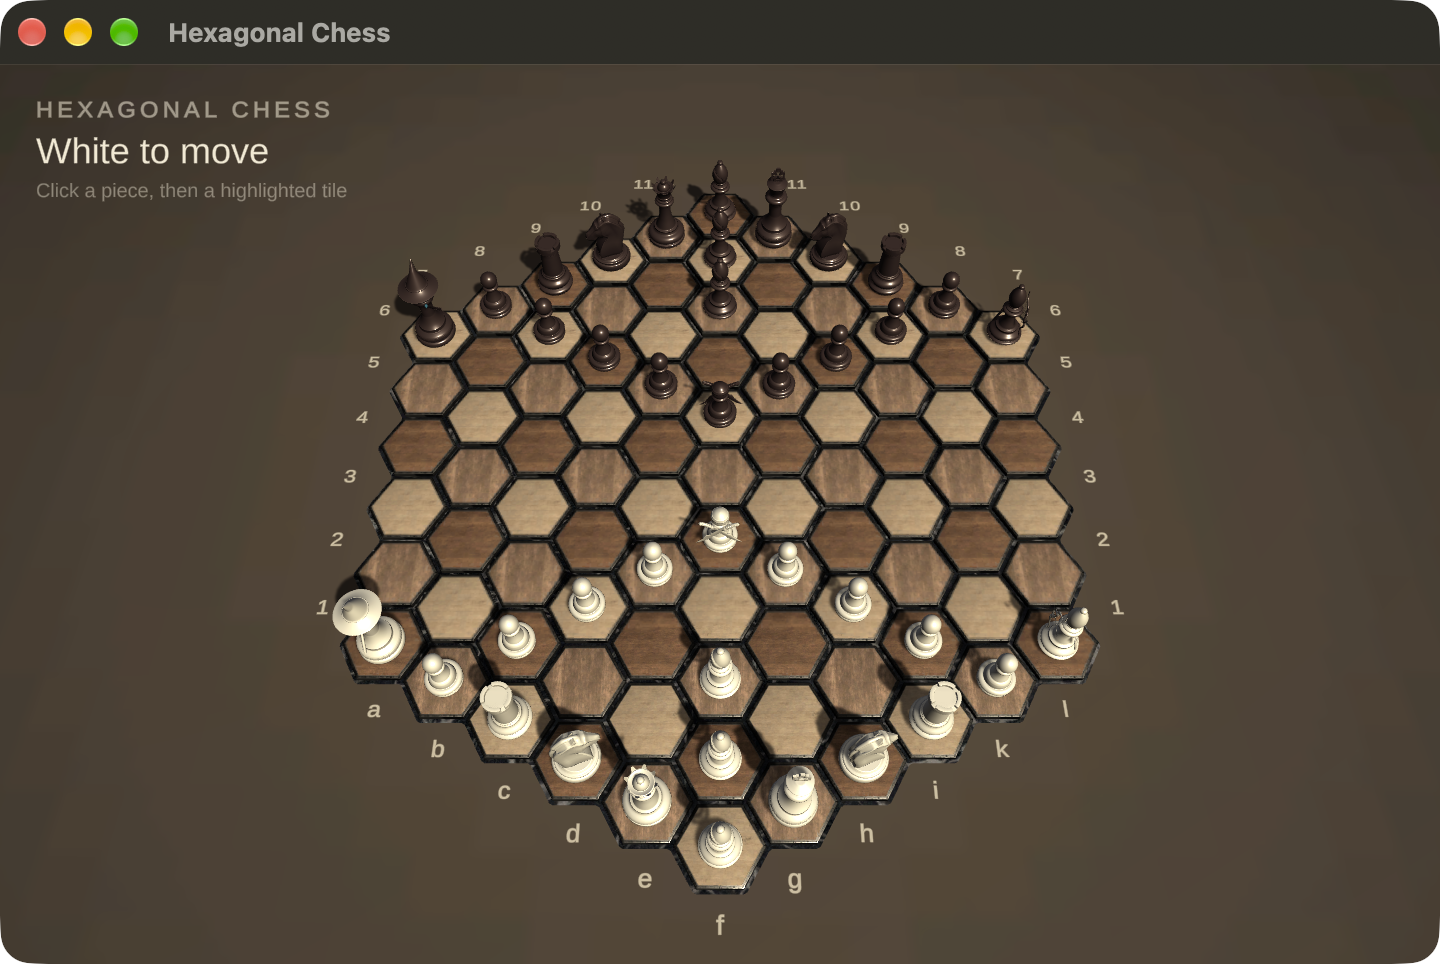
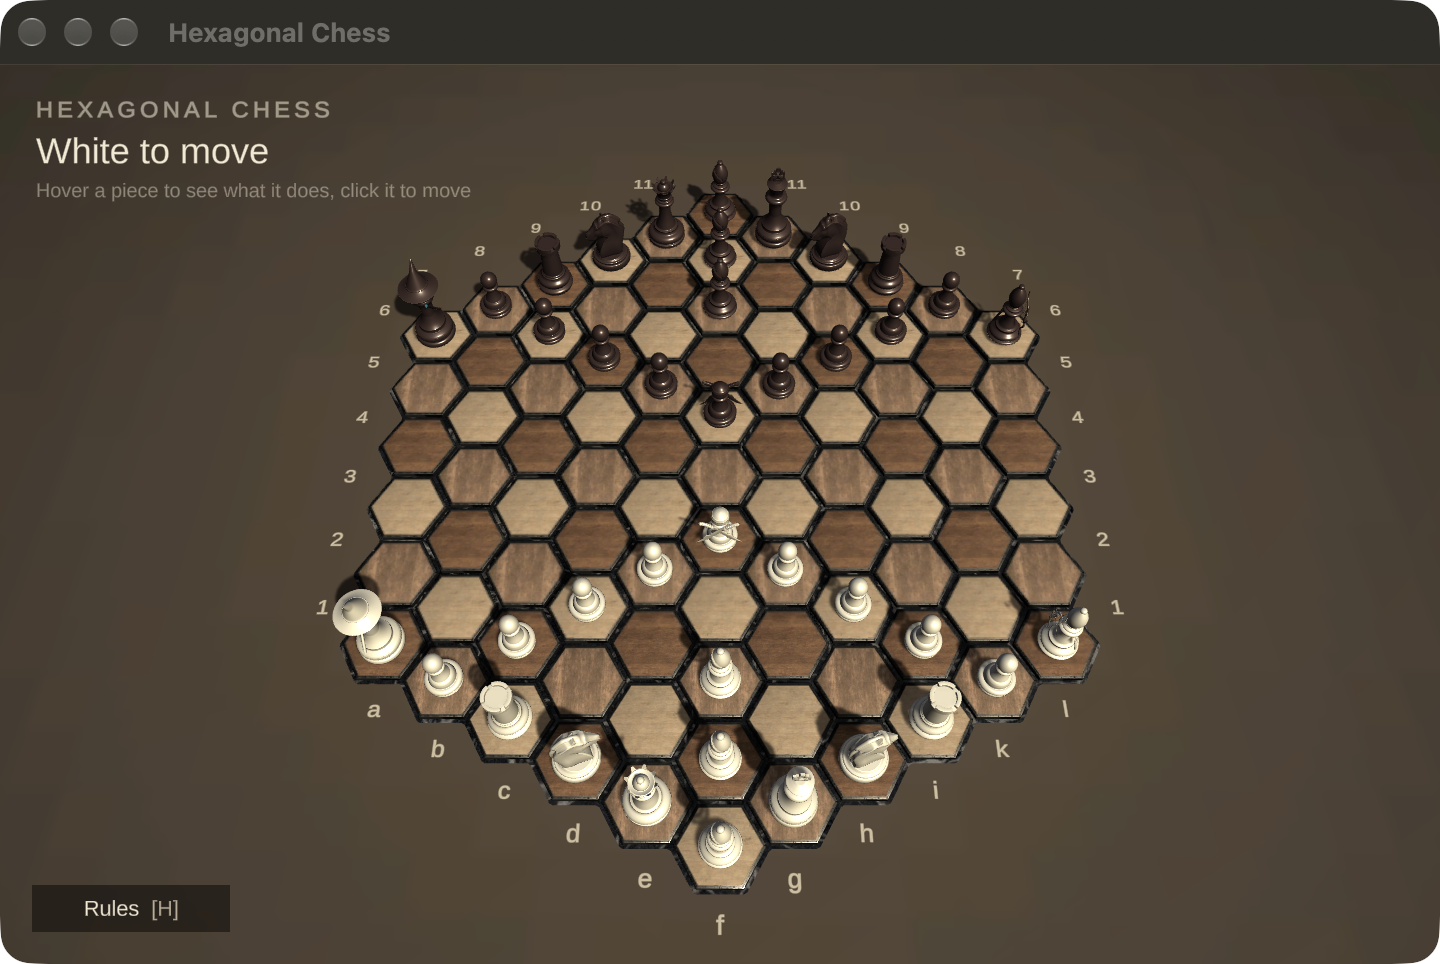
Explain the pieces: details panel and rules overlay
- Hovering or selecting a piece shows its name, side and rules, plus live
  state: Sniper/Wizard recharge, stuns, pawn captures toward promotion,
  the Assassin's second move
- Rules overlay (button or H) with the win condition and every piece
- Clicks on UI or while the overlay is open no longer reach the board
- Cooldown message says moves, matching how cooldowns count down

diff --git a/Assets/Scripts/PieceGuide.cs b/Assets/Scripts/PieceGuide.cs
@@ -1,0 +1,270 @@
+using System.Collections.Generic;
+using TMPro;
+using UnityEngine;
+using UnityEngine.EventSystems;
+using UnityEngine.UI;
+
+/// <summary>
+/// Explains the pieces: a details panel for the hovered or selected piece,
+/// and a rules overlay toggled with H or the Rules button.
+/// </summary>
+public class PieceGuide : MonoBehaviour
+{
+    private struct PieceDoc
+    {
+        public string Name;
+        public string Kind;
+        public string Rules;
+
+        public PieceDoc(string name, string kind, string rules)
+        {
+            Name = name;
+            Kind = kind;
+            Rules = rules;
+        }
+    }
+
+    private static readonly Dictionary<System.Type, PieceDoc> Docs = new Dictionary<System.Type, PieceDoc>
+    {
+        { typeof(King), new PieceDoc("King", "Classic piece",
+            "Steps one tile in any of the 12 directions: the 6 neighbouring tiles and the 6 diagonals. If it is captured, its side loses.") },
+        { typeof(Queen), new PieceDoc("Queen", "Classic piece",
+            "Slides any distance along the 6 straight lines or the 6 diagonals.") },
+        { typeof(Rook), new PieceDoc("Rook", "Classic piece",
+            "Slides any distance along the 6 straight lines, through the edges of the tiles.") },
+        { typeof(Bishop), new PieceDoc("Bishop", "Classic piece",
+            "Slides any distance along the 6 diagonals, through the corners of the tiles. Each of the three bishops stays on one tile colour.") },
+        { typeof(Knight), new PieceDoc("Knight", "Classic piece",
+            "Jumps two tiles straight and then one to the side, leaping over anything in between.") },
+        { typeof(Pawn), new PieceDoc("Pawn", "Classic piece",
+            "Moves one tile forward (two on its first move) and captures one tile diagonally forward. Becomes a Queen on the far edge, or after its third capture. En passant applies.") },
+        { typeof(Assassin), new PieceDoc("Assassin", "Special piece",
+            "Moves up to 3 tiles in a straight line. If it moves without capturing, it gets a second move straight away. It can't capture the Sniper or the Wizard.") },
+        { typeof(Sniper), new PieceDoc("Sniper", "Special piece",
+            "Never moves. Shoots an enemy up to 2 tiles away in a straight line, or 1 diagonal step away, even over other pieces. Then reloads for 10 moves.") },
+        { typeof(Wizard), new PieceDoc("Wizard", "Special piece",
+            "Never moves. Stuns an enemy in the same range as the Sniper: the stunned piece can't move on its side's next turn. Then recharges for 10 moves.") },
+    };
+
+    private static readonly System.Type[] GuideOrder =
+    {
+        typeof(King), typeof(Queen), typeof(Rook), typeof(Bishop), typeof(Knight), typeof(Pawn),
+        typeof(Assassin), typeof(Sniper), typeof(Wizard),
+    };
+
+    private static readonly Color Cream = new Color32(0xF3, 0xE9, 0xD2, 0xFF);
+    private const string Muted = "#B8AC95";
+    private const string Accent = "#FFD08C";
+
+    private GameObject detailsPanel;
+    private TextMeshProUGUI detailsText;
+    private GameObject rulesOverlay;
+    private ChessPiece shownPiece;
+    private string shownState;
+
+    private void Start()
+    {
+        var canvas = FindAnyObjectByType<Canvas>().transform;
+        BuildDetailsPanel(canvas);
+        BuildRulesButton(canvas);
+        BuildRulesOverlay(canvas);
+    }
+
+    private void Update()
+    {
+        if (Input.GetKeyDown(KeyCode.H) || (rulesOverlay.activeSelf && Input.GetKeyDown(KeyCode.Escape)))
+        {
+            ToggleRules();
+        }
+
+        var board = BoardScript.Instance;
+        if (board == null || board.ChessPieces == null)
+        {
+            return;
+        }
+
+        ChessPiece piece = board.SelectedPiece;
+        if (piece == null && board.HoverX >= 0 && board.HoverY >= 0)
+        {
+            piece = board.ChessPieces[board.HoverX, board.HoverY];
+        }
+
+        string state = piece == null ? null : State(piece);
+        if (piece == shownPiece && state == shownState)
+        {
+            return;
+        }
+        shownPiece = piece;
+        shownState = state;
+
+        detailsPanel.SetActive(piece != null);
+        if (piece == null || !Docs.TryGetValue(piece.GetType(), out PieceDoc doc))
+        {
+            detailsPanel.SetActive(false);
+            return;
+        }
+
+        string side = piece.isWhite ? "White" : "Black";
+        detailsText.text =
+            $"<size=38>{doc.Name}</size>\n" +
+            $"<color={Muted}><size=20>{side.ToUpper()}  ·  {doc.Kind.ToUpper()}</size></color>\n\n" +
+            $"<size=23>{doc.Rules}</size>" +
+            (string.IsNullOrEmpty(state) ? "" : $"\n\n<color={Accent}><size=23>{state}</size></color>");
+    }
+
+    /// <summary>
+    /// Live status of a piece: cooldowns, stuns, captures toward promotion
+    /// </summary>
+    private static string State(ChessPiece piece)
+    {
+        var lines = new List<string>();
+
+        if (piece.isStunned)
+        {
+            lines.Add("Stunned: can't move this turn");
+        }
+
+        if (piece is Sniper || piece is Wizard)
+        {
+            string action = piece is Sniper ? "Shot" : "Stun";
+            lines.Add(piece.coolDown > 0
+                ? $"{action} ready in {piece.coolDown} move{(piece.coolDown == 1 ? "" : "s")}"
+                : $"{action} ready");
+        }
+        else if (piece is Pawn)
+        {
+            lines.Add($"Captures: {piece.score} of 3");
+        }
+        else if (piece is Assassin && piece.doubleMove)
+        {
+            lines.Add("Second move: pick a tile");
+        }
+
+        return string.Join("\n", lines);
+    }
+
+    private void ToggleRules()
+    {
+        bool open = !rulesOverlay.activeSelf;
+        rulesOverlay.SetActive(open);
+        BoardScript.InputBlocked = open;
+    }
+
+    private void BuildDetailsPanel(Transform canvas)
+    {
+        detailsPanel = Panel(canvas, "Piece Details", new Color(0.05f, 0.04f, 0.03f, 0.55f));
+        var rt = (RectTransform)detailsPanel.transform;
+        rt.anchorMin = rt.anchorMax = rt.pivot = new Vector2(1, 1);
+        rt.anchoredPosition = new Vector2(-36, -36);
+        rt.sizeDelta = new Vector2(380, 0);
+
+        var layout = detailsPanel.AddComponent<VerticalLayoutGroup>();
+        layout.padding = new RectOffset(26, 26, 22, 24);
+        layout.childControlWidth = layout.childControlHeight = true;
+        layout.childForceExpandHeight = false;
+        detailsPanel.AddComponent<ContentSizeFitter>().verticalFit = ContentSizeFitter.FitMode.PreferredSize;
+
+        detailsText = Text(detailsPanel.transform, "Text", "", 23);
+        detailsText.lineSpacing = 6;
+        detailsPanel.SetActive(false);
+    }
+
+    private void BuildRulesButton(Transform canvas)
+    {
+        var go = Panel(canvas, "Rules Button", new Color(0.05f, 0.04f, 0.03f, 0.55f));
+        var rt = (RectTransform)go.transform;
+        rt.anchorMin = rt.anchorMax = rt.pivot = new Vector2(0, 0);
+        rt.anchoredPosition = new Vector2(36, 36);
+        rt.sizeDelta = new Vector2(220, 52);
+        go.GetComponent<Image>().raycastTarget = true;
+
+        var button = go.AddComponent<Button>();
+        var colors = button.colors;
+        colors.highlightedColor = new Color(1.5f, 1.4f, 1.2f, 1f);
+        button.colors = colors;
+        button.onClick.AddListener(ToggleRules);
+
+        var label = Text(go.transform, "Label", $"Rules  <color={Muted}>[H]</color>", 24);
+        label.alignment = TextAlignmentOptions.Center;
+        Stretch(label.rectTransform);
+    }
+
+    private void BuildRulesOverlay(Transform canvas)
+    {
+        rulesOverlay = Panel(canvas, "Rules Overlay", new Color(0.04f, 0.035f, 0.03f, 0.9f));
+        Stretch((RectTransform)rulesOverlay.transform);
+        rulesOverlay.GetComponent<Image>().raycastTarget = true;
+        rulesOverlay.AddComponent<Button>().onClick.AddListener(ToggleRules);
+
+        var title = Text(rulesOverlay.transform, "Title", "How to play", 44);
+        Place(title.rectTransform, new Vector2(0.5f, 1), new Vector2(0, -60), new Vector2(1200, 60));
+        title.alignment = TextAlignmentOptions.Top;
+
+        var intro = Text(rulesOverlay.transform, "Intro",
+            $"<color={Muted}>Hexagonal chess for two players on one screen, on a 91-tile board. White starts. " +
+            "Click a piece to see its moves, then click a highlighted tile. " +
+            "There is no check or checkmate: <color=#F3E9D2>capture the enemy King to win</color>.</color>", 24);
+        Place(intro.rectTransform, new Vector2(0.5f, 1), new Vector2(0, -125), new Vector2(1200, 80));
+        intro.alignment = TextAlignmentOptions.Top;
+
+        var left = Text(rulesOverlay.transform, "Classic", Guide(0, 6), 20);
+        Place(left.rectTransform, new Vector2(0.5f, 1), new Vector2(-310, -200), new Vector2(580, 720));
+        var right = Text(rulesOverlay.transform, "Special", Guide(6, 9), 20);
+        Place(right.rectTransform, new Vector2(0.5f, 1), new Vector2(310, -200), new Vector2(580, 720));
+
+        var close = Text(rulesOverlay.transform, "Close", $"<color={Muted}>Click anywhere or press H to close</color>", 22);
+        Place(close.rectTransform, new Vector2(0.5f, 0), new Vector2(0, 28), new Vector2(800, 40));
+        close.alignment = TextAlignmentOptions.Bottom;
+
+        rulesOverlay.SetActive(false);
+    }
+
+    private static string Guide(int from, int to)
+    {
+        var sb = new System.Text.StringBuilder();
+        sb.Append($"<color={Accent}><size=20>{(from == 0 ? "CLASSIC PIECES" : "SPECIAL PIECES")}</size></color>\n\n");
+        for (int i = from; i < to; i++)
+        {
+            var doc = Docs[GuideOrder[i]];
+            sb.Append($"<size=25>{doc.Name}</size>\n<color={Muted}>{doc.Rules}</color>\n<size=10> </size>\n");
+        }
+        return sb.ToString();
+    }
+
+    private static GameObject Panel(Transform parent, string name, Color color)
+    {
+        var go = new GameObject(name, typeof(RectTransform), typeof(Image));
+        go.transform.SetParent(parent, false);
+        var image = go.GetComponent<Image>();
+        image.color = color;
+        image.raycastTarget = false;
+        return go;
+    }
+
+    private static TextMeshProUGUI Text(Transform parent, string name, string text, float size)
+    {
+        var go = new GameObject(name, typeof(RectTransform));
+        go.transform.SetParent(parent, false);
+        var t = go.AddComponent<TextMeshProUGUI>();
+        t.text = text;
+        t.fontSize = size;
+        t.color = Cream;
+        t.raycastTarget = false;
+        t.alignment = TextAlignmentOptions.TopLeft;
+        return t;
+    }
+
+    private static void Place(RectTransform rt, Vector2 anchor, Vector2 position, Vector2 size)
+    {
+        rt.anchorMin = rt.anchorMax = rt.pivot = anchor;
+        rt.anchoredPosition = position;
+        rt.sizeDelta = size;
+    }
+
+    private static void Stretch(RectTransform rt)
+    {
+        rt.anchorMin = Vector2.zero;
+        rt.anchorMax = Vector2.one;
+        rt.offsetMin = rt.offsetMax = Vector2.zero;
+    }
+}

diff --git a/Assets/Scripts/BoardScript.cs b/Assets/Scripts/BoardScript.cs
@@ -1,5 +1,6 @@
 using UnityEngine;
 using TMPro;
+using UnityEngine.EventSystems;
 using System.Collections;
 using System.Collections.Generic;
 
@@ -37,6 +38,16 @@ public class BoardScript : MonoBehaviour
     public int HoverY => coordinateY;
 
     /// <summary>
+    /// Currently selected piece, null when nothing is selected
+    /// </summary>
+    public ChessPiece SelectedPiece => selectedChessPiece;
+
+    /// <summary>
+    /// Set while an overlay (the rules) covers the board
+    /// </summary>
+    public static bool InputBlocked;
+
+    /// <summary>
     /// Array of allowed moves
     /// </summary>
     private bool[,] AllowedMoves { get; set; }
@@ -72,7 +83,8 @@ public class BoardScript : MonoBehaviour
     {
         AssignCoordinates();
 
-        if (Input.GetMouseButtonDown(0) && coordinateX > -1 && coordinateY > -1)
+        bool overUi = EventSystem.current != null && EventSystem.current.IsPointerOverGameObject();
+        if (Input.GetMouseButtonDown(0) && !InputBlocked && !overUi && coordinateX > -1 && coordinateY > -1)
         {
             if (selectedChessPiece == null)
             {
@@ -121,7 +133,7 @@ public class BoardScript : MonoBehaviour
 
         if ((selectedChessPiece.GetType() == typeof(Wizard) || selectedChessPiece.GetType() == typeof(Sniper)) && selectedChessPiece.coolDown > 0)
         {
-            StatusText.text = selectedChessPiece.GetType().ToString() + " is on cooldown for " + selectedChessPiece.coolDown + " turns.";
+            StatusText.text = selectedChessPiece.GetType().ToString() + " is recharging: ready in " + selectedChessPiece.coolDown + " moves.";
         }
     }
 

diff --git a/Assets/Scripts/SceneDressing.cs b/Assets/Scripts/SceneDressing.cs
@@ -23,6 +23,8 @@ public class SceneDressing : MonoBehaviour
 
     private void Start()
     {
+        gameObject.AddComponent<PieceGuide>();
+
         if (hoverPrefab != null)
         {
             hover = Instantiate(hoverPrefab);
